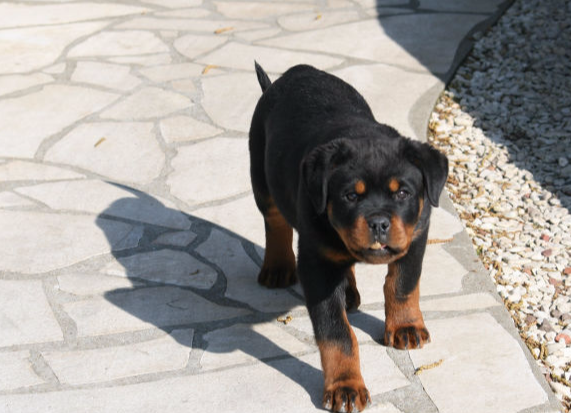
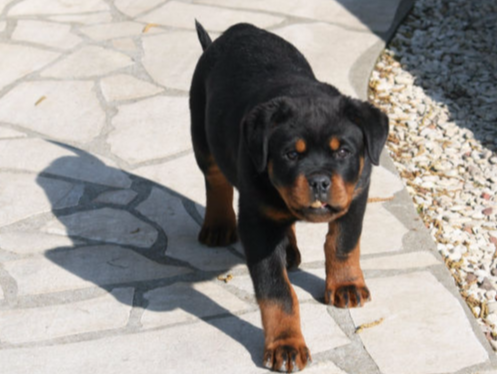
9

diff --git a/news.html b/news.html
@@ -63,7 +63,7 @@
     </nav>
 </section>
 
-<section class="engine"><a href="https://mobirise.info/n">free simple web templates</a></section><section class="features15 cid-rmWnkdCrtN" id="features15-k">
+<section class="engine"><a href="https://mobirise.info/j">website templates</a></section><section class="features15 cid-rmWnkdCrtN" id="features15-k">
 
     
 
@@ -100,15 +100,15 @@
     
     <!-- End block parameters -->
     <div class="container images-container">
-            <div class="media-container-row" style="width: 80%;">
-                <div class="img-item item1" style="width: 104%;">
-                    <img src="assets/images/puppy-femelle-03.05.2019-arko-x-louve-858x750.jpg" alt="" title="">
+            <div class="media-container-row" style="width: 78%;">
+                <div class="img-item item1" style="width: 90%;">
+                    <img src="assets/images/puppy-femelle-03.05.2019-arko-x-louve-772x675.jpg" alt="" title="">
                     <div class="img-caption">
-                        <p class="mbr-fonts-style align-center mbr-black display-7"></p><p>Female 18 days.</p><p></p>
+                        <p class="mbr-fonts-style align-center mbr-black display-7">Female 18 days.</p><p></p><p></p>
                     </div>
                 </div>
                 <div class="img-item">
-                    <img src="assets/images/puppy-male-03.05.2019-arko-x-louve-854x854.jpg" alt="" title="">
+                    <img src="assets/images/puppy-male-03.05.2019-arko-x-louve-896x896.jpg" alt="" title="">
                     <div class="img-caption">
                         <p class="mbr-fonts-style align-center mbr-black display-7">Male 18 days.</p>
                     </div>

diff --git a/assets/mobirise/css/mbr-additional.css b/assets/mobirise/css/mbr-additional.css
@@ -2444,8 +2444,8 @@ body {
   color: #ff3900 !important;
 }
 .cid-rpe7rBd7c8 {
-  padding-top: 120px;
-  padding-bottom: 90px;
+  padding-top: 60px;
+  padding-bottom: 45px;
   background-color: #3a3f4b;
 }
 .cid-rpe7rBd7c8 .row-links {
@@ -5351,59 +5351,6 @@ body {
 }
 .cid-rpegoGCgay .card-wrapper {
   height: 100%;
-}
-.cid-rperdm88FI {
-  padding-top: 0px;
-  padding-bottom: 0px;
-  background: #6c717c;
-}
-.cid-rperdm88FI .images-container.container-fluid {
-  padding: 0;
-}
-.cid-rperdm88FI .media-container-row {
-  margin: 0 auto;
-  align-items: stretch;
-  -webkit-align-items: stretch;
-}
-.cid-rperdm88FI .media-container-row .img-item {
-  display: -webkit-flex;
-  flex-direction: column;
-  justify-content: center;
-  position: relative;
-  width: 100%;
-  z-index: 1;
-  -webkit-flex-direction: column;
-  -webkit-justify-content: center;
-}
-.cid-rperdm88FI .media-container-row .img-item img {
-  width: 100%;
-  min-height: 1px;
-}
-.cid-rperdm88FI .media-container-row .img-item .img-caption {
-  background: #ffffff;
-  z-index: 2;
-  padding: 1rem 1rem;
-  word-break: break-word;
-}
-.cid-rperdm88FI .media-container-row .img-item .img-caption p {
-  margin-bottom: 0;
-}
-.cid-rperdm88FI .media-container-row .img-item.item1 {
-  padding: 0 2rem 0 0;
-}
-@media (max-width: 992px) {
-  .cid-rperdm88FI .img-item {
-    width: 100% !important;
-  }
-  .cid-rperdm88FI .img-item.item1 {
-    width: 100%;
-    flex-basis: initial !important;
-    padding: 0 0 2rem 0 !important;
-    -webkit-flex-basis: initial !important;
-  }
-}
-.cid-rperdm88FI P {
-  color: #ffffff;
 }
 .cid-rpeq7CTDxC {
   padding-top: 120px;

diff --git a/contact.html b/contact.html
@@ -63,7 +63,7 @@
     </nav>
 </section>
 
-<section class="engine"><a href="https://mobirise.info/n">simple web templates</a></section><section class="counters6 counters cid-rmXhWwjBlq" id="counters6-1g">
+<section class="engine"><a href="https://mobirise.info/o">portfolio site templates</a></section><section class="counters6 counters cid-rmXhWwjBlq" id="counters6-1g">
 
     
 
@@ -132,7 +132,7 @@
         <div class="row justify-content-center">
             <div class="media-container-column col-lg-8" data-form-type="formoid">
                 <!---Formbuilder Form--->
[2 lines of base64/hex data omitted]
                     <div class="row row-sm-offset">
                         <div hidden="hidden" data-form-alert="" class="alert alert-success col-12">Thanks for filling out the form!</div>
                         <div hidden="hidden" data-form-alert-danger="" class="alert alert-danger col-12">

diff --git a/links.html b/links.html
@@ -63,7 +63,7 @@
     </nav>
 </section>
 
-<section class="engine"><a href="https://mobirise.info/r">free bootstrap templates</a></section><section class="features2 cid-rpegoGCgay" id="features2-28">
+<section class="engine"><a href="https://mobirise.info/v">html templates</a></section><section class="features2 cid-rpegoGCgay" id="features2-28">
 
     
 
@@ -109,24 +109,6 @@
 
             
         </div>
-    </div>
-</section>
-
-<section class="cid-rperdm88FI" id="image4-2f">
-    <!-- Block parameters controls (Blue "Gear" panel) -->
-    
-    <!-- End block parameters -->
-    <div class="container images-container">
-            <div class="media-container-row" style="width: 80%;">
-                <div class="img-item item1" style="width: 177%;">
-                    <img src="assets/images/pixel-vide-1x1.png" alt="" title="">
-                    
-                </div>
-                <div class="img-item">
-                    <img src="assets/images/pixel-vide-1x1.png" alt="" title="">
-                    
-                </div>
-            </div>
     </div>
 </section>
 

diff --git a/dogs.html b/dogs.html
@@ -63,7 +63,7 @@
     </nav>
 </section>
 
-<section class="engine"><a href="https://mobirise.info/w">html5 templates</a></section><section class="features18 popup-btn-cards cid-rmWVQsQoGC" id="features18-15">
+<section class="engine"><a href="https://mobirise.info/r">free bootstrap template</a></section><section class="features18 popup-btn-cards cid-rmWVQsQoGC" id="features18-15">
 
     
 

diff --git a/puppies.html b/puppies.html
@@ -63,7 +63,7 @@
     </nav>
 </section>
 
-<section class="engine"><a href="https://mobirise.info/j">website templates</a></section><section class="features15 cid-rpe3thi02o" id="features15-21">
+<section class="engine"><a href="https://mobirise.info/l">free site templates</a></section><section class="features15 cid-rpe3thi02o" id="features15-21">
 
     
 

diff --git a/gallery.html b/gallery.html
@@ -63,7 +63,7 @@
     </nav>
 </section>
 
-<section class="engine"><a href="https://mobirise.info/a">online web builder</a></section><section class="features17 cid-rou58uSZJr" id="features17-1s">
+<section class="engine"><a href="https://mobirise.info/t">amp templates</a></section><section class="features17 cid-rou58uSZJr" id="features17-1s">
     
     
 

diff --git a/memory.html b/memory.html
@@ -63,7 +63,7 @@
     </nav>
 </section>
 
-<section class="engine"><a href="https://mobirise.info/y">html web templates</a></section><section class="features3 cid-rooLB2CJj4" id="features3-1p">
+<section class="engine"><a href="https://mobirise.info/j">website templates</a></section><section class="features3 cid-rooLB2CJj4" id="features3-1p">
 
     
 

diff --git a/index.html b/index.html
@@ -63,7 +63,7 @@
     </nav>
 </section>
 
-<section class="engine"><a href="https://mobirise.info/d">web maker</a></section><section class="header1 cid-rmWHWXBmCh" id="header16-y">
+<section class="engine"><a href="https://mobirise.info">Mobirise</a></section><section class="header1 cid-rmWHWXBmCh" id="header16-y">
 
     
 
